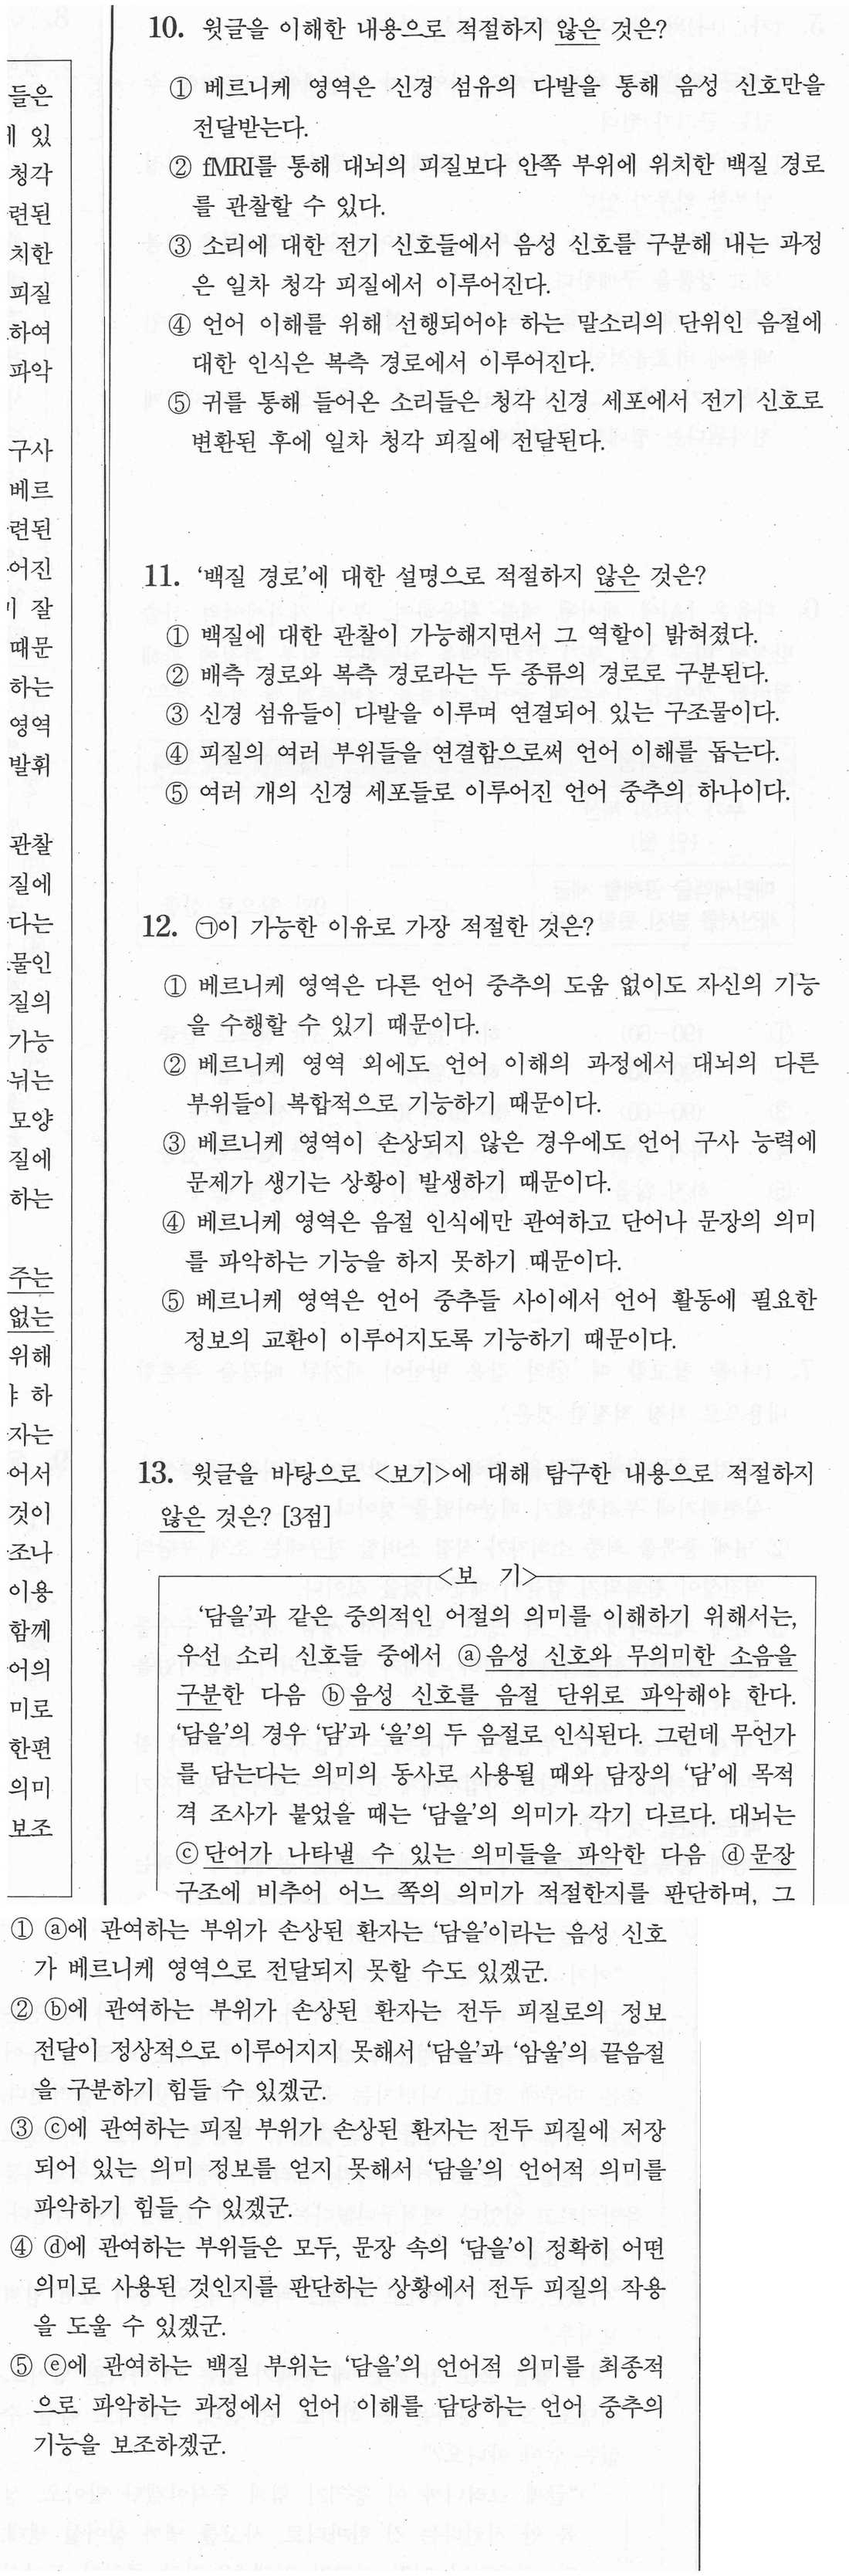
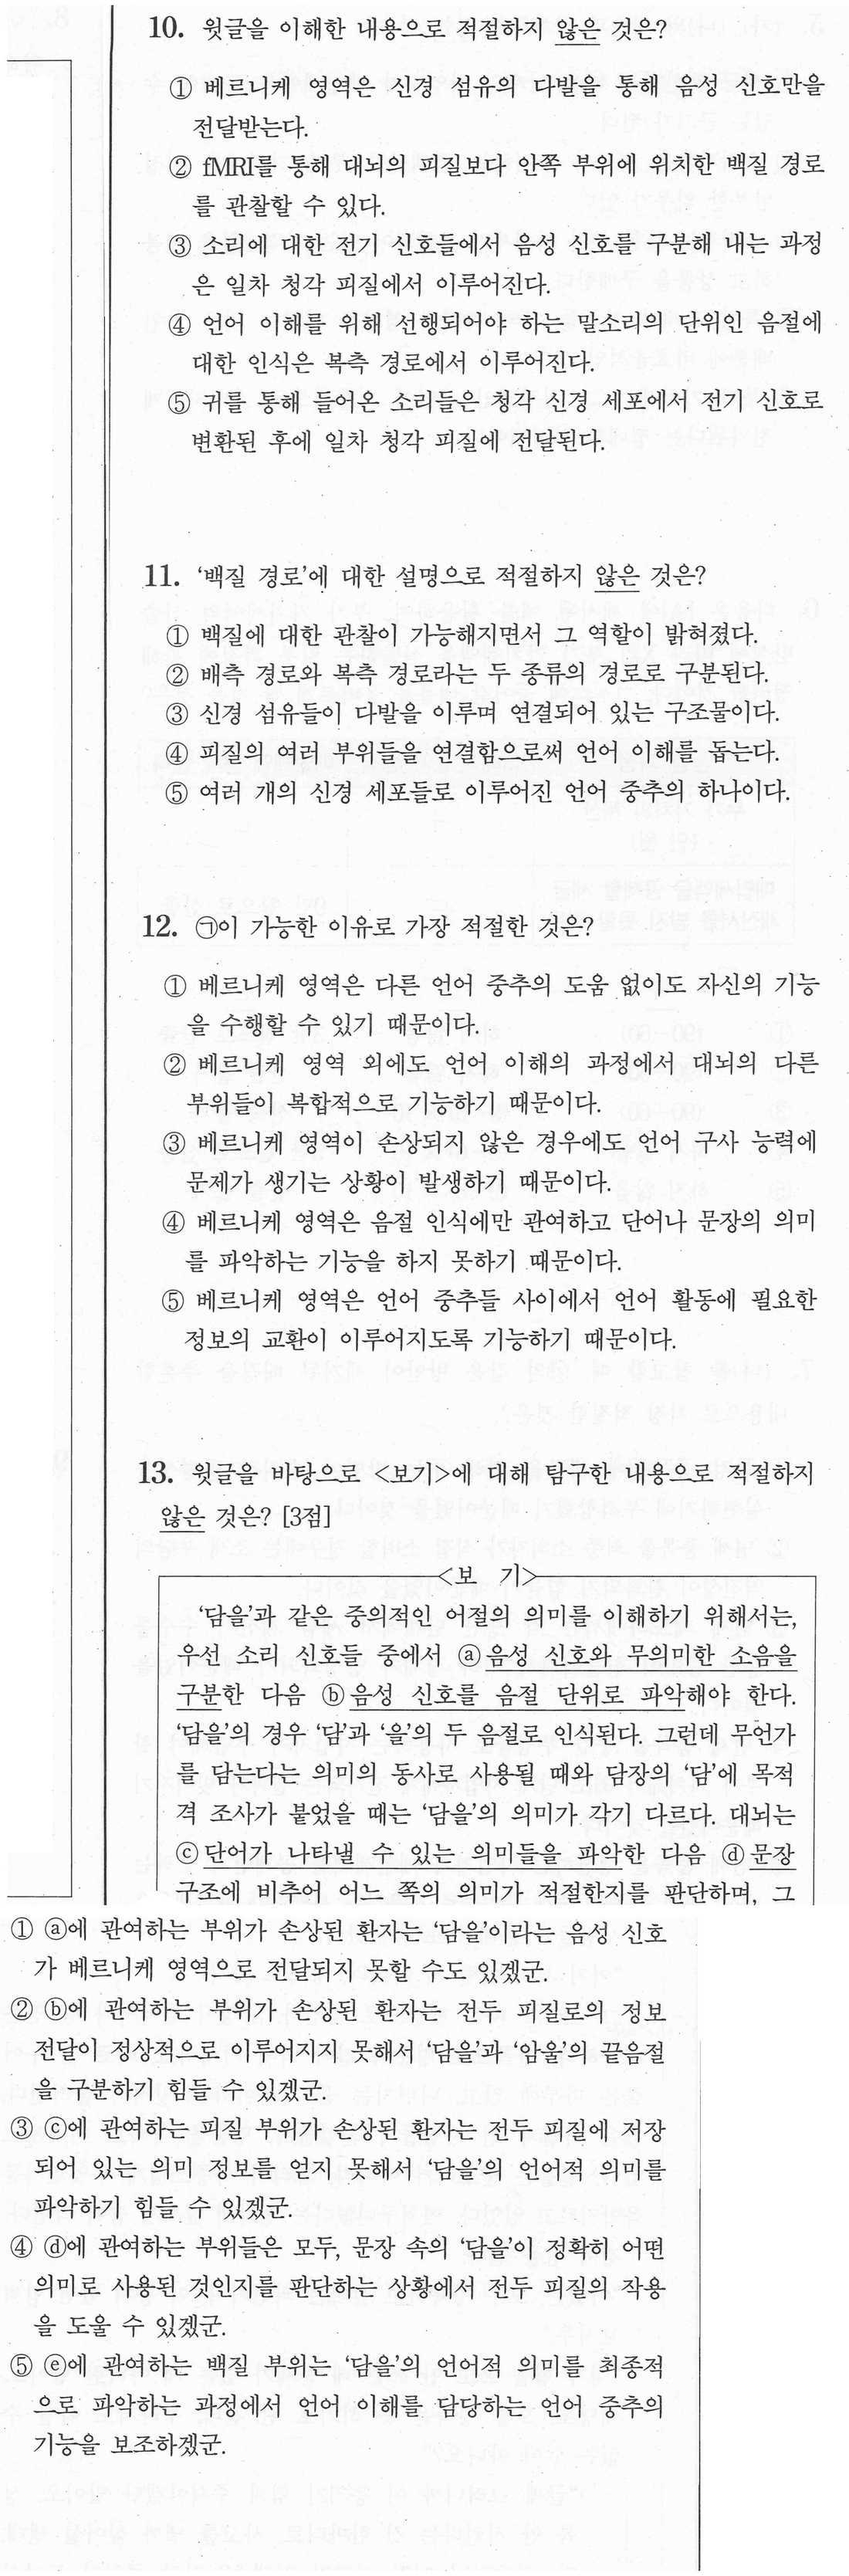
nje: PDF 문항 단위 배치, 2027 시즌1 1차 10~13번 옆단 글자 제거
Claude-Session: https://claude.ai/code/session_011bs3u81TZ6TCVhBovMvZiV

Changed region(s): [[0.0, 0.187, 0.0618, 0.4675], [0.0, 0.4987, 0.0618, 0.7168], [0.0, 0.0312, 0.0618, 0.1558]]

diff --git a/nje/index.html b/nje/index.html
@@ -330,10 +330,12 @@ async function blankMap(d){
   const bm=await new Promise((ok,no)=>{const im=new Image();const u=URL.createObjectURL(new Blob([d],{type:"image/jpeg"}));im.onload=()=>{URL.revokeObjectURL(u);ok(im)};im.onerror=no;im.src=u});
   const w=bm.naturalWidth,h=bm.naturalHeight,cv=document.createElement("canvas");cv.width=w;cv.height=h;const g=cv.getContext("2d",{willReadFrequently:true});g.fillStyle="#fff";g.fillRect(0,0,w,h);g.drawImage(bm,0,0);
   const px=g.getImageData(0,0,w,h).data,bl=new Uint8Array(h);
-  for(let y=0;y<h;y++){let c=0,o=y*w*4;for(let x=0;x<w;x++,o+=4)if(px[o]<170&&++c>2)break;bl[y]=c<=2?1:0}
+  const T=Math.max(2,Math.round(w*0.004));for(let y=0;y<h;y++){let c=0,o=y*w*4;for(let x=0;x<w;x++,o+=4)if(px[o]<130&&++c>T)break;bl[y]=c<=T?1:0}
   cv.width=cv.height=1;return bl;
 }
-function findCut(bl,lo,hi){for(let r=hi;r>=lo;r--){let ok=true;for(let k=-3;k<=3;k++)if(!bl[r+k]){ok=false;break}if(ok)return r}return hi}
+function findCut(bl,lo,hi){let best=-1,bs=0,i=lo;
+  while(i<=hi){if(bl[i]){let s0=i;while(i<bl.length&&bl[i])i++;const len=i-s0;if(len>=4){const c=Math.min(hi,s0+Math.min(len>>1,12));if(len>=bs){bs=len;best=c}}}else i++}
+  return best<0?hi:best}
 function textJpg(draw,wpt,hpt,sc){const cv=document.createElement("canvas");cv.width=Math.round(wpt*sc);cv.height=Math.round(hpt*sc);const g=cv.getContext("2d");g.fillStyle="#fff";g.fillRect(0,0,cv.width,cv.height);g.scale(sc,sc);g.fillStyle="#111";g.textBaseline="alphabetic";draw(g);
   return new Promise(ok=>cv.toBlob(b=>b.arrayBuffer().then(a=>ok(new Uint8Array(a))),"image/jpeg",.92))}
 const FONT='"Apple SD Gothic Neo","Pretendard","Noto Sans KR","Malgun Gothic",sans-serif';
@@ -355,10 +357,12 @@ async function makePdf(L,withAns,prog){
     for(const k of [x.p.f,x.p.f+"_q"]){
       const d=await getBytes(x.e.id,k),im=pw.img(d),bl=await blankMap(d),s=CW/im.w;
       let r=0,end=im.h;while(r<end&&bl[r])r++;while(end>r&&bl[end-1])end--;
+      const isQ=k!==x.p.f,colPx=Math.floor((A4H-MB-MT)/s);
+      if(isQ&&y>MT&&(end-r)*s>A4H-MB-y&&(A4H-MB-y)<(A4H-MB-MT)*.4)nextCol();
       while(r<end){
         const avail=Math.floor((A4H-MB-y)/s);
         if(avail<60){nextCol();continue}
-        const cut=end-r<=avail?end:findCut(bl,r+Math.floor(avail*.45),r+avail);
+        const cut=end-r<=avail?end:findCut(bl,r+Math.floor(avail*(isQ?.3:.75)),r+avail);
         const X=MX+col*(CW+GT),hh=(cut-r)*s;
         use(im,`q ${f2(X)} ${f2(A4H-y-hh)} ${f2(CW)} ${f2(hh)} re W n ${f2(im.w*s)} 0 0 ${f2(im.h*s)} ${f2(X)} ${f2(A4H-y+r*s-im.h*s)} cm /I${im.n} Do Q`);
         y+=hh;r=cut;
